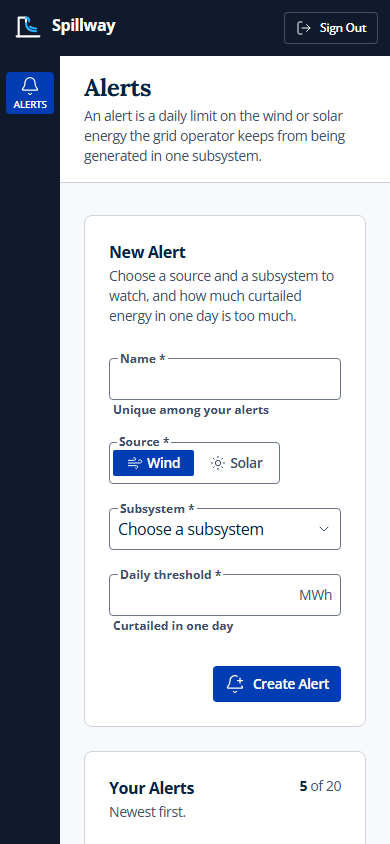
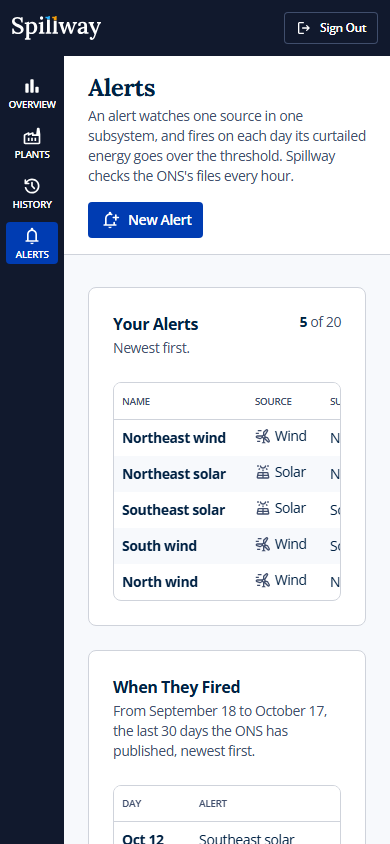
docs: show the data pages in the readme and the architecture guide

diff --git a/README.md b/README.md
@@ -2,14 +2,38 @@
 
 Alerts on the wind and solar energy Brazil's grid operator keeps from being generated, built for [the ONS's open curtailment data](https://dados.ons.org.br).
 
-An account keeps up to twenty alerts, each a daily limit on one source in one subsystem: tell me when more than 12,000 MWh of Northeast wind goes unused in a day. This first slice is the alerts themselves, end to end: the form, its rules on both servers, the database and the page, with an account to keep them in. Reading the ONS's data each day and checking every alert against it is the next.
+Spillway reads the ONS's files every hour and shows what was curtailed: a day, a week or a month against the one before, the plants that lost the most, and every month since the data begins. An account keeps up to twenty alerts, each a daily limit on one source in one subsystem: tell me when more than 150,000 MWh of Northeast wind goes unused in a day. Before an alert is saved, a chart shows the days of the last thirty it would have fired on.
 
 SvelteKit 3 and Svelte 5 in front, a Go 1.27 API behind it, Postgres 18 behind that, and an OpenAPI 3.1 contract between the two servers that both are generated from.
 
-![The alerts page: a form to add one, with its four fields in a row, and five alerts on Northeast, Southeast, South and North wind and solar](docs/screenshots/alerts.png)
+![The overview of Saturday, October 17, 2026: 130 GWh curtailed, 30% of what the plants could have generated, 57.9 GWh of wind and 72.2 GWh of solar, and a column per half hour, wind and solar stacked, peaking at 9,170 MWh at 10:00](docs/screenshots/overview.png)
 
 <details>
 <summary>More screens</summary>
+
+**A half hour, pointed at**
+
+![The same day's chart with a tooltip on 12:30 to 13:00: 3,446 MWh of wind, 4,382 MWh of solar, 7,828 MWh in all](docs/screenshots/overview-tooltip.png)
+
+**A month so far**
+
+![October 2026 up to the 17th: 2,351 GWh curtailed, 15% less than September 1 to 17, a column per day, and the days to come marked as not published yet](docs/screenshots/overview-month.png)
+
+**The plants, ranked**
+
+![The plants limited in the week of October 12, 2026, ranked by the energy each lost, with its state, subsystem, source, share of its potential and hours limited](docs/screenshots/plants.png)
+
+**Every month since the data begins**
+
+![The curtailment of each month since October 2021, wind and solar stacked, with the blackout of August 15, 2023, the start of the solar data and the peak of October 2025 marked](docs/screenshots/history.png)
+
+**The alerts, and the days they fired**
+
+![Five alerts on Northeast, Southeast, South and North wind and solar, each with the day it last fired and how many of the last 30 it fired on, and under them the days they fired, newest first](docs/screenshots/alerts.png)
+
+**A new alert, against the last 30 days**
+
+![The new alert form for Northeast wind at 150,000 MWh, beside a column per day of the last 30 with a dashed line at the threshold, the days over it in blue, and a line saying it would have fired on 6 of them](docs/screenshots/alert-preview.png)
 
 **A form refused, with or without JavaScript**
 
@@ -17,21 +41,23 @@ SvelteKit 3 and Svelte 5 in front, a Go 1.27 API behind it, Postgres 18 behind t
 
 **A rule only the API can check**
 
-![A new alert named NORTHEAST WIND, refused because an alert named Northeast wind already exists, with the message on the name field](docs/screenshots/name-taken.png)
+![A new alert named NORTHEAST WIND, refused because an alert named Northeast wind already exists, with the message on the name field and the preview still drawn](docs/screenshots/name-taken.png)
 
 **No alerts yet**
 
-![The alerts page with an empty list: two wind turbines and a line saying where a new alert will show](docs/screenshots/no-alerts.png)
+![The alerts page with an empty list: two wind turbines, a line saying a new alert shows how often it would have fired, and a button to make one](docs/screenshots/no-alerts.png)
 
 **On a phone**
 
-![The alerts page on a phone, the form's fields stacked, the source as two options side by side](docs/screenshots/alerts-phone.png)
+![The overview on a phone: the period's three choices, the day with arrows either side, and the totals stacked](docs/screenshots/overview-phone.png)
+
+![The alerts page on a phone: the New Alert button under the title, the alerts' table, and the days they fired below](docs/screenshots/alerts-phone.png)
 
 **A sign-in refused**
 
 ![The sign-in page saying the email or the password is wrong, the address kept and the password cleared](docs/screenshots/sign-in-refused.png)
 
-Regenerate with `pnpm run screenshots`, against the stack `docker compose up --wait --build` started, or with `pnpm run screenshots <name>` for one screen. They are taken as an account of the script's own, `ana@example.com`, whose alerts it replaces each time.
+Regenerate with `pnpm run screenshots`, against the stack `docker compose up --wait --build` started, or with `pnpm run screenshots <name>` for one screen. They show the latest day the ONS has published, and the alerts are taken as an account of the script's own, `ana@example.com`, whose alerts it replaces each time.
 
 </details>
 
@@ -45,7 +71,7 @@ Docker, and nothing else. No API key or account.
 docker compose up --wait --build
 ```
 
-Then open `http://localhost:8090` and sign up with any address: nothing is sent to it.
+Then open `http://localhost:8090`. The first start downloads the ONS's files, about 280 MB, in a minute or so; until the latest month is in, the data pages say so. To keep alerts, sign up with any address: nothing is sent to it.
 
 | Where | What |
 | --- | --- |
@@ -65,17 +91,21 @@ To work on it: pnpm 11 or newer, which switches itself to the pinned 12.14.0 and
 
 Most of Brazil's wind power, and much of its solar, is generated in the Northeast, and the lines that would carry all of it south are not built yet. When the grid cannot take what the plants could produce, the ONS, which operates the grid, orders them to hold back: curtailment, or constrained-off in the ONS's words.
 
-The ONS publishes it on its open data portal, wind and solar apart, in half-hour steps since October 2021, under CC-BY. It updates the data twice a day and revises it as it is checked, so a day's figure can change after it first appears: an alert has to be checked against a day that may still move, which is why reading the data is a slice of its own.
+The ONS publishes it on its open data portal under CC-BY, plant by plant in half-hour steps: wind since October 2021 and solar since April 2024, a Parquet file per source and month. It adds days to the current month's file as they come in and revises older ones as they are checked, so a day's figure can change after it first appears. Spillway loads a month again whenever its file changes, and works out an alert's firings from the data as it stands rather than recording them.
 
 ---
 
 ## Screens
 
-| Route      | What it is                                                              |
-| ---------- | ----------------------------------------------------------------------- |
-| `/sign-up` | An account: an email address and a password of 15 characters or more    |
-| `/sign-in` | Signing in, and back to the page asked for                              |
-| `/alerts`  | The alerts: a form to add one, and the list, newest first, up to twenty |
+| Route | What it is |
+| --- | --- |
+| `/` | A day, a week or a month against the one before: by half hour or by day, by subsystem and by reason, and the plants that lost the most |
+| `/plants` | Every plant limited in a period, ranked by the energy it lost, by source and subsystem, twenty to a page |
+| `/history` | Each month since the data begins, its share of what could have been generated, and each year |
+| `/alerts` | The alerts, newest first and up to twenty, when each last fired, and the days they fired in the last thirty |
+| `/alerts/new` | A new alert, with the last thirty days drawn against its threshold as it is typed |
+| `/sign-up` | An account: an email address and a password of 15 characters or more |
+| `/sign-in` | Signing in, and back to the page asked for |
 
 ---
 
@@ -90,6 +120,9 @@ The ONS publishes it on its open data portal, wind and solar apart, in half-hour
 - **Twenty alerts means twenty.** Creating one locks the account's row, counts and inserts in one transaction, and a test fires forty creates at once at a real Postgres to prove only twenty land ([ADR 0008](docs/adr/0008-the-alert-limit-is-held-by-the-database.md)).
 - **Every form works without JavaScript.** Each is a plain form with a server action, enhanced when the script runs; a refused form comes back with what was typed, and an accepted one redirects, so a reload never posts it twice ([ADR 0010](docs/adr/0010-every-form-works-without-javascript.md)).
 - **A dense look, accessible first.** Dark chrome, white panels, compact controls and tables, from tokens in Tailwind 4; every label visible, native selects and radios, one focus ring, an error summary that takes focus, toasts that wait to be closed ([ADR 0009](docs/adr/0009-a-dense-dashboard-look-accessibility-first.md)).
+- **The ONS's files, synced on their own.** A second process from the same binary lists the ONS's bucket every hour, loads each new or revised month by its ETag, the latest first, and replaces it whole in one transaction. The pages read the sums it keeps, never the files ([ADR 0020](docs/adr/0020-the-ons-data-is-synced-by-a-process-of-its-own.md)).
+- **Firings read from the data.** An alert's firings are a query over the daily sums, not rows of their own, so a revised day revises them too ([ADR 0021](docs/adr/0021-firings-are-read-from-the-data.md)).
+- **Charts in our own SVG.** Columns, bars and lines are Svelte components on d3-scale, drawn on the server with no style attribute for the content security policy to refuse, and each chart's figures sit in a table under it ([ADR 0022](docs/adr/0022-charts-drawn-in-our-own-svg.md)).
 - **Observable, and gentle when it stops.** slog with a request id from the browser's page to the API's log line, OpenTelemetry metrics for Prometheus and traces over OTLP, readiness that turns off before the server drains and stops ([ADR 0011](docs/adr/0011-observability.md), [ADR 0012](docs/adr/0012-graceful-shutdown-with-a-drain.md)).
 
 ---
@@ -99,14 +132,14 @@ The ONS publishes it on its open data portal, wind and solar apart, in half-hour
 ```bash
 pnpm run ci              # format, lint, types, unit tests, and component tests in Chromium
 pnpm run contract:check  # the web's generated client matches the contract
-pnpm run e2e             # Playwright on a laptop, on a phone and with JavaScript off, against the stack
+pnpm run e2e             # Playwright on a laptop, on a phone and with JavaScript off, against the stack and its data
 
 cd services/api
 go test -race ./...                                              # the API's unit tests
 go test -race -tags integration ./internal/adapter/postgres/...  # against a real Postgres 18
 ```
 
-The domain and the use cases are tested in memory, against fakes of their own interfaces, and the Postgres adapter against a real Postgres 18, forty creates at once for one account included. Vitest runs the components in Chromium. Playwright drives the whole stack as a visitor would: every state of every page audited by axe against WCAG 2.2 AA, no console error allowed, a content security policy report included, and every internal link followed.
+The domain and the use cases are tested in memory, against fakes of their own interfaces, and the Postgres adapter against a real Postgres 18, forty creates at once for one account included, and a month loaded, read, revised and read again. The ONS adapter reads a Parquet file its test writes, from a test server that answers like the bucket. Vitest runs the components in Chromium. Playwright waits for the sync to load every month, then drives the whole stack as a visitor would: every state of every page audited by axe against WCAG 2.2 AA, no console error allowed, a content security policy report included, and every internal link followed.
 
 CI runs the same, and golangci-lint with the layer rules, govulncheck, a check that generated code matches its sources, and oasdiff against the previous commit's contract. Then it builds the stack with compose and runs the browser checks against it.
 
@@ -114,7 +147,7 @@ CI runs the same, and golangci-lint with the layer rules, govulncheck, a check t
 
 ## Reading further
 
-[docs/architecture.md](docs/architecture.md) shows the pieces, the repository, and one request from the form to the database and back. Each trade-off has a record in [docs/adr](docs/adr/README.md), version pins included, and [AGENTS.md](AGENTS.md) is how to work on the code.
+[docs/architecture.md](docs/architecture.md) shows the pieces, the repository, one request from the form to the database and back, and the data from the ONS's files to a page. Each trade-off has a record in [docs/adr](docs/adr/README.md), version pins included, and [AGENTS.md](AGENTS.md) is how to work on the code.
 
 ---
 

diff --git a/docs/architecture.md b/docs/architecture.md
@@ -6,13 +6,18 @@ How Spillway is put together, and the path one request takes through it. Why eac
 
 ```text
 browser ──HTML forms──▶ web (SvelteKit 3, Node 24) ──JSON over HTTP──▶ api (Go 1.27) ──pgx──▶ Postgres 18
-          one origin,      renders every page,          bearer token,        rules, sessions,
-          one cookie       keeps the session cookie     private network      storage
+          one origin,      renders every page,          bearer token,        rules, sessions,      ▲
+          one cookie       keeps the session cookie     private network      storage              │ pgx
+                                                                                                   │
+the ONS's S3 bucket ◀──HTTPS, ETags── sync (`api sync`, the same binary) ─────────────────────────┘
+   a Parquet file per                  sums each new or revised file,
+   source and month                    and replaces its month whole
 ```
 
 - The browser only ever talks to the web server, on one origin (ADR 0001).
 - The web server only ever talks to the API, with the session's token as a bearer token. Nothing publishes the API's port.
 - The API only ever talks to Postgres.
+- The sync service is the only one that reaches the internet, to read the ONS's files every hour (ADR 0020).
 - `contracts/openapi.yaml` describes the one interface between the two servers, and both sides are generated from it (ADR 0002).
 
 ## The repository
@@ -22,18 +27,22 @@ spillway/
 ├── contracts/
 │   └── openapi.yaml            the API: every request, answer, limit and error code
 ├── services/api/               Go module: the API
-│   ├── cmd/api/                main: `serve`, `migrate`, `healthcheck`; wires everything by hand
+│   ├── cmd/api/                main: `serve`, `sync`, `migrate`, `healthcheck`; wires everything by hand
 │   ├── internal/
 │   │   ├── domain/             entities and rules, no I/O
 │   │   │   ├── errors.go       sentinels, ValidationError, ConflictError, violation codes
 │   │   │   ├── account/        email and password rules, sessions and their tokens
-│   │   │   └── alert/          what makes an alert, and the limit per account
+│   │   │   ├── alert/          what makes an alert, the limit per account, firings
+│   │   │   └── curtailment/    sources, subsystems, reasons, periods, a month's sums
 │   │   ├── app/                use cases, each with the interfaces it needs
-│   │   │   ├── alerting/       create, list and delete alerts
-│   │   │   └── identity/       sign up, sign in, authenticate, sign out, purge
+│   │   │   ├── alerting/       create, list and delete alerts, and read their firings
+│   │   │   ├── identity/       sign up, sign in, authenticate, sign out, purge
+│   │   │   ├── ingest/         load the ONS's new and revised files, the latest month first
+│   │   │   └── reports/        a period's overview, the plants ranked, the months, the latest days
 │   │   ├── adapter/            the outside world, behind the use cases' interfaces
 │   │   │   ├── httpapi/        the server ogen generated (oas/), handlers, problems, middleware
 │   │   │   ├── postgres/       migrations/, queries/, sqlc's sqlcdb/, and the stores
+│   │   │   ├── ons/            the ONS's bucket: its listing, and its Parquet files
 │   │   │   ├── argon2id/       password hashing, a bounded number at a time
 │   │   │   └── ratelimit/      the sign-in throttle, a token bucket per address
 │   │   └── platform/           config, logging, httpserver, health, telemetry, schedule
@@ -45,18 +54,18 @@ spillway/
 │   │   ├── hooks.server.ts     request id, security headers, the session on every request
 │   │   ├── env.ts              API_URL, checked when the server starts
 │   │   ├── app.css             the design system's tokens and type styles
-│   │   ├── routes/             sign-in, sign-up, sign-out, alerts, the error page
+│   │   ├── routes/             the overview (/), plants, history, alerts and a new one, signing in and out
 │   │   └── lib/
 │   │       ├── api/generated/  Hey API's types, client and Zod schemas: not edited by hand
 │   │       ├── server/         server only: the API client, session and flash cookies, form readers
 │   │       ├── forms/          what every form does: field errors, and use:enhance's additions
-│   │       ├── features/       the domain's words for the screen: alerts, account
-│   │       └── components/     ui/ (fields, buttons, table pieces, toasts) and layout/ (the shell)
+│   │       ├── features/       the domain's words for the screen: curtailment, alerts, account
+│   │       └── components/     ui/ (fields, buttons, tables, toasts), charts/ (SVG) and layout/
 │   ├── vite.config.ts          SvelteKit's options (CSP, CSRF, origin) and the Vitest projects
 │   └── Dockerfile              adapter-node's output on Node
 ├── e2e/                        Playwright against the running stack: desktop, phone, no JavaScript
 ├── docs/                       this file, and the decision records in adr/
-├── compose.yaml                db, migrate, api and web
+├── compose.yaml                db, migrate, api, sync and web
 └── .github/workflows/ci.yml
 ```
 
@@ -103,6 +112,22 @@ Someone fills in the form on `/alerts` and presses Create Alert.
 
 The other operations take the same path: the contract, the generated decoder, a handler, a use case, the domain, an adapter.
 
+## The data, from the ONS to a page
+
+| Step | Where | What happens |
+| --- | --- | --- |
+| 1 | `cmd/api`, `sync` | Each hour, and once at start, the ingest use case runs. |
+| 2 | `adapter/ons` | Lists both datasets in the ONS's S3 bucket, one request each, and keeps the monthly Parquet files with their ETags. |
+| 3 | `app/ingest` | Skips every file whose ETag is the one stored, and takes the rest the latest month first. |
+| 4 | `adapter/ons`, `domain/curtailment` | Downloads a file and reads it with parquet-go into a month builder, which checks each record and sums it into plant days, subsystem days, reason days and half hours. |
+| 5 | `adapter/postgres` | One transaction: the plants upserted, the month's rows deleted, the sums copied in, the file's ETag recorded. A file that fails is logged and left for the next run. |
+| 6 | `routes/+page.server.ts` | `/?period=week&date=2026-10-14` asks `GET /v1/curtailment` and `GET /v1/plants`, public operations that need no session. |
+| 7 | `app/reports`, `domain/curtailment` | Works out the period from how far the data goes: the week from Monday that holds the day, up to the last day published, and as many days of the week before to compare with. |
+| 8 | `adapter/postgres` | Reads the totals, the series, the subsystems, the reasons and the plant counts in one repeatable-read snapshot. |
+| 9 | `features/curtailment`, `components/charts` | Words the period, and draws its columns and bars in SVG on the server, with the figures in a table under each chart (ADR 0022). |
+
+An alert's firings are a query over the same subsystem days, not rows of their own (ADR 0021).
+
 ## Conventions
 
 **Go**
@@ -110,7 +135,7 @@ The other operations take the same path: the contract, the generated decoder, a 
 - Errors are values: sentinels and typed errors in the domain, wrapped with `%w` on the way up, told apart with `errors.Is` and `errors.As`, mapped to a status in one place (`httpapi.NewError`). No panics for control flow.
 - Every function that does I/O takes a `context.Context` first, and passes it down. Background work gets its own context from `main`, never `context.Background()` in the middle of a call.
 - Interfaces are declared by the package that uses them, with only the methods it calls. Constructors return concrete types.
-- Goroutines only where something runs on its own: the two servers, the session purge and the throttle's sweep, in one errgroup. The password hasher bounds its own concurrency with a channel used as a semaphore.
+- Goroutines only where something runs on its own: the two servers, the session purge and the throttle's sweep, in one errgroup; in `sync`, the admin server and the hourly run, in another. The password hasher bounds its own concurrency with a channel used as a semaphore.
 - `log/slog` only, with the request's attributes taken from the context.
 - Tests sit next to the code as `_test.go`. Integration tests carry the `integration` build tag and need a Postgres.
 

diff --git a/AGENTS.md b/AGENTS.md
@@ -10,17 +10,17 @@ Alerts on how much wind and solar energy Brazil's grid operator keeps from being
 | `services/api` | The Go API: `domain`, `app`, `adapter` and `platform` under `internal`, wired by hand in `cmd/api` (ADR 0003) |
 | `apps/web` | The SvelteKit app: every page rendered on its server, the only thing a browser talks to (ADR 0001) |
 | `e2e` | Playwright against the running stack: desktop, a phone, and JavaScript off |
-| `docs` | `architecture.md` and the decision records in `adr/` |
+| `docs` | `architecture.md`, the decision records in `adr/`, and the logo in `brand/`, with the script that draws it |
 
 ## Commands
 
-- `docker compose up --wait --build`: the whole stack, healthchecked, at `http://localhost:8090`. Use `localhost`, not `127.0.0.1`: the app's origin is fixed at build time and a form posted from another one is refused (ADR 0015).
+- `docker compose up --wait --build`: the whole stack, healthchecked, at `http://localhost:8090`. Use `localhost`, not `127.0.0.1`: the app's origin is fixed at build time and a form posted from another one is refused (ADR 0015). The first start downloads the ONS's files, about 280 MB, in a minute or so; until the latest month is in, the data pages say so.
 - `pnpm install`: Node 24.22.0 and pnpm 12.14.0 are pinned (`devEngines`, `packageManager`) and downloaded on the first install.
 - `pnpm run ci`: format check, lint, types, unit and component tests in every package. Must pass before any change is done.
 - `pnpm exec prettier --write <paths>`: from the repository root, which holds the ignore file.
 - `pnpm --filter @spillway/web dev`: the web app on port 5173, against the API at `API_URL` (from `.env` in `apps/web`, e.g. `API_URL=http://localhost:8080`).
 - `pnpm --filter @spillway/web api:generate`: after any change to the contract. Commit what it writes under `src/lib/api/generated`; `pnpm run contract:check` fails while it is stale.
-- `pnpm run e2e`: the browser checks, against the stack compose started. The first time, `pnpm --filter @spillway/e2e exec playwright install chromium` fetches the browser.
+- `pnpm run e2e`: the browser checks, against the stack compose started, once the sync has loaded every month. The first time, `pnpm --filter @spillway/e2e exec playwright install chromium` fetches the browser.
 - `pnpm run screenshots`: takes the README's screens again from the running stack, into `docs/screenshots`. Look at each before committing it.
 
 In `services/api`:
@@ -29,7 +29,7 @@ In `services/api`:
 - `go test -race ./...`: the unit tests.
 - `go test -race -tags integration ./internal/adapter/postgres/...`: against a real Postgres 18, in Testcontainers (Docker must be running), or the empty database `TEST_DATABASE_URL` names.
 - `go run github.com/golangci/golangci-lint/v2/cmd/golangci-lint@v2.15.0 run ./...`: the linters, the layer rules included.
-- `go run ./cmd/api serve` and `go run ./cmd/api migrate`: with `DATABASE_URL` set. `LOG_FORMAT=text` reads better on a laptop.
+- `go run ./cmd/api serve`, `go run ./cmd/api sync` and `go run ./cmd/api migrate`: with `DATABASE_URL` set. `LOG_FORMAT=text` reads better on a laptop, and `SYNC_INTERVAL=0` makes `sync` run once and exit.
 
 ## The API's configuration
 
@@ -45,6 +45,8 @@ In `services/api`:
 | `SHUTDOWN_DRAIN`, `SHUTDOWN_TIMEOUT` | `0s`, `20s` | ADR 0012 |
 | `PASSWORD_HASH_CONCURRENCY` | the CPUs | Hashes at once |
 | `OTEL_EXPORTER_OTLP_ENDPOINT` | unset | Traces over OTLP when set (ADR 0011) |
+| `ONS_URL` | the ONS's bucket | Where `sync` lists and reads the files (ADR 0020) |
+| `SYNC_INTERVAL` | `1h` | How often `sync` looks for new and revised files; `0` runs it once |
 
 The configuration is read once, at start, and every bad value is reported together.
 

diff --git a/docs/adr/README.md b/docs/adr/README.md
@@ -22,3 +22,7 @@ One file per decision that had a trade-off, version pins included. Each says wha
 | [0016](0016-local-only.md) | Local only |
 | [0017](0017-ci-least-privilege-pinned-actions.md) | CI with least privilege and pinned actions |
 | [0018](0018-toolchains-and-images-pinned.md) | Toolchains, dependencies and images pinned |
+| [0019](0019-material-symbols-and-a-wordmark-drawn-from-the-data.md) | Material Symbols, and a wordmark drawn from the data |
+| [0020](0020-the-ons-data-is-synced-by-a-process-of-its-own.md) | The ONS's data is synced by a process of its own |
+| [0021](0021-firings-are-read-from-the-data.md) | Firings are read from the data, not recorded |
+| [0022](0022-charts-drawn-in-our-own-svg.md) | Charts drawn in our own SVG |
